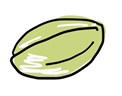
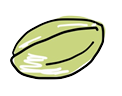
[0817 지은] 1. 토끼, 송편 이미지 누끼 딴 버전으로 변경 2. home.jsp에서 db에 저장된 토끼 출력 - UserService에 selectUserInfo() 추가 - MainController의 main()에 사용자 정보를 조회하는 로직 추가 3. qr코드 url 수정 수정중 : 카카오 url 수정 (~진행중~)

diff --git a/daltokki/src/main/resources/templates/Home.html b/daltokki/src/main/resources/templates/Home.html
@@ -66,6 +66,8 @@
            {
              title: '웹으로 보기',
              link: {
+               // 여기서 직접 수정
+               // 이
                mobileWebUrl: 'https://developers.kakao.com',
                webUrl: 'https://developers.kakao.com',
              },
@@ -79,6 +81,7 @@
 <body>
     <div class="container">
         <h1 th:inline="text"><span th:text="${param.id}"></span>님의 메인</h1>
+        <img th:src="@{'/img/' + ${userInfo.get().rabbit_type} + '.png'}" width="100px" height="100px">
         <div class="box">
             <div class="row">
                 <div th:each="sp : ${spList}" class="col-md-4" style="text-align:center">
@@ -117,7 +120,7 @@
                     <div class="p-4 to-front">
                         <div class="text-center">
                             <div class="qr">
-                                <img th:src="@{getQrcode}" alt="QR Code" class="img-fluid mb-4"/>
+                                <img th:src="@{getQrcode(id=${param.id})}" alt="QR Code" class="img-fluid mb-4"/>
                             </div>
                             <br><p class="mb-4">친구에게 달토끼를 공유하세용!🐰</p>
                             <form action="#" class="mb-4">

diff --git a/daltokki/src/main/resources/static/css/style.css b/daltokki/src/main/resources/static/css/style.css
@@ -38,13 +38,14 @@ body.modal-open {
     width: 100%
     height: 100%;
     /* padding: 20px; */
-    background-color: white;
+    background-color: #fffee0;
     border: 5px solid blue;
 }
 
 /* 아나 인텔리제이 css 불편해 */
 button {
     border: 2px solid navy;
+    border-radius : 5px;
     padding: 5px;
     background-color: white;
 }

diff --git a/daltokki/src/main/java/com/moon/daltokki/Controller/MainController.java b/daltokki/src/main/java/com/moon/daltokki/Controller/MainController.java
@@ -8,6 +8,7 @@ import com.google.zxing.WriterException;
 import com.google.zxing.client.j2se.MatrixToImageWriter;
 import com.google.zxing.common.BitMatrix;
 import com.moon.daltokki.Model.SpModel;
+import com.moon.daltokki.Model.UserModel;
 import com.moon.daltokki.Service.MainService;
 import com.moon.daltokki.Service.UserService;
 import lombok.extern.slf4j.Slf4j;
@@ -26,6 +27,7 @@ import org.springframework.web.servlet.mvc.support.RedirectAttributes;
 import java.io.ByteArrayOutputStream;
 import java.io.IOException;
 import java.util.List;
+import java.util.Optional;
 
 @Slf4j
 @Controller
@@ -53,10 +55,13 @@ public class MainController {
         
         if (!isIdExists) { // 존재하지 않을때
             return "error/error"; // error.html로 이동
-        } else { // 존재하면 송편 목록 조회
+        } else { // 존재하면 사용자 정보 및 송편 목록 조회
+            Optional<UserModel> userInfo = userService.selectUserInfo(id);
             List<SpModel> spList = mainService.selectSpList(id);
 
+            model.addAttribute("userInfo", userInfo);
             model.addAttribute("spList", spList);
+            log.info("[MainController][main] userInfo : {}", userInfo);
             log.info("[MainController][main] spList : {}", spList);
             return "Home";
         }
@@ -86,11 +91,11 @@ public class MainController {
 
     @ResponseBody
     @RequestMapping(value = "/getQrcode")
-    public ResponseEntity<byte[]> getQrcode2() throws WriterException, IOException {
+    public ResponseEntity<byte[]> getQrcode2(String id) throws WriterException, IOException {
         // QR 정보
         int width = 200;
         int height = 200;
-        String url = "http://localhost:8080/"; // 테스트니까 고정주소
+        String url = "http://localhost:8080/main?id=" + id;
 
         // QR Code - BitMatrix: qr code 정보 생성
         BitMatrix encode = new MultiFormatWriter()

diff --git a/daltokki/src/main/java/com/moon/daltokki/Service/UserService.java b/daltokki/src/main/java/com/moon/daltokki/Service/UserService.java
@@ -1,7 +1,5 @@
 package com.moon.daltokki.Service;
 
-import com.fasterxml.jackson.core.JsonProcessingException;
-import com.fasterxml.jackson.databind.ObjectMapper;
 import com.moon.daltokki.Model.UserModel;
 import com.moon.daltokki.Repository.UserRepository;
 import lombok.extern.slf4j.Slf4j;
@@ -10,7 +8,6 @@ import org.springframework.data.mongodb.core.MongoTemplate;
 import org.springframework.stereotype.Component;
 import org.springframework.security.crypto.password.PasswordEncoder;
 
-import java.lang.reflect.Array;
 import java.util.*;
 
 @Slf4j
@@ -56,6 +53,13 @@ public class UserService {
     log.info("[Service][checkIdExists] Checking if ID exists: {}", id);
 
     return userRepository.existsByUsername(id);
+  }
+
+  // 사용자의 정보 조회
+  public Optional<UserModel> selectUserInfo(String id) {
+    log.info("[Service][selectUserInfo] selected username : {}", id);
+
+    return userRepository.findByusername(id);
   }
   // ----------------- 지은 -------------------
 

diff --git a/daltokki/src/main/java/com/moon/daltokki/Repository/UserRepository.java b/daltokki/src/main/java/com/moon/daltokki/Repository/UserRepository.java
@@ -4,6 +4,8 @@ import com.moon.daltokki.Model.UserModel;
 import org.springframework.data.mongodb.repository.MongoRepository;
 import org.springframework.data.mongodb.repository.Query;
 import org.springframework.data.repository.query.Param;
+
+import java.util.List;
 import java.util.Optional;
 
 public interface UserRepository extends MongoRepository<UserModel, String> {
